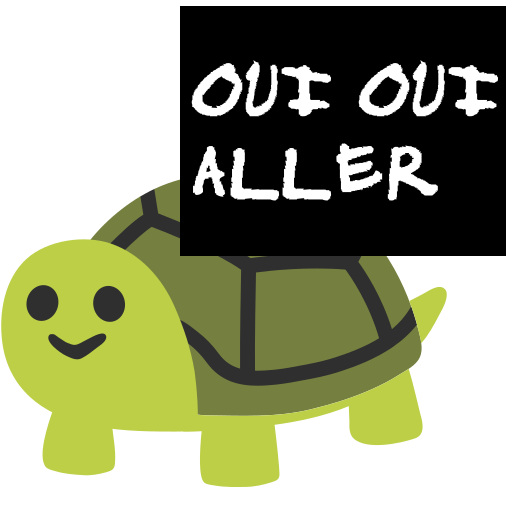
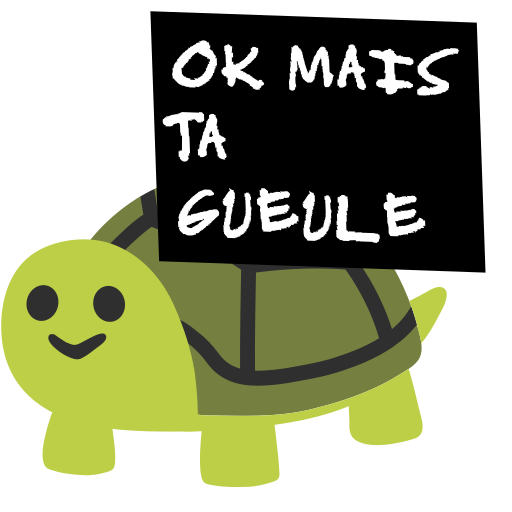
v1

Changed region(s): [[0.2812, 0.0, 1.0, 0.5312]]

diff --git a/turtlesay.py b/turtlesay.py
@@ -1,5 +1,6 @@
 #!/usr/bin/env python3
 
+from datetime import datetime
 from io import BytesIO
 import svgwrite
 from cairosvg import svg2png
@@ -28,12 +29,20 @@ def turtle_say(text, size=75, interline_ratio=0.5, side_pad=10) -> BytesIO:
     dwg.add(base_img)
 
     rect = svgwrite.shapes.Rect(txt_box_insert, txt_box_size)
-    dwg.add(rect)
+    # dwg.add(rect)
     
     txt = svgtextbox.textBuilder(text, txt_box_size[0] - side_pad, size, interline_ratio, font="James Tan Dinawanao")
     txt.center(txt_box_size[1])
     txt.translate(txt_box_insert[0] + side_pad, txt_box_insert[1])
-    dwg.add(txt)
+
+    txtgroup = svgwrite.container.Group()
+    txtgroup.add(rect)
+    txtgroup.add(txt)
+    txtgroup.skewX(2)
+    txtgroup.skewY(2)
+    txtgroup.translate(-30, 0)
+
+    dwg.add(txtgroup)
 
     # export as image
     svg_code = dwg.tostring()
@@ -41,8 +50,16 @@ def turtle_say(text, size=75, interline_ratio=0.5, side_pad=10) -> BytesIO:
     out = svg2png(bytestring=svg_code, write_to=None)
     with open("output.png", "wb") as f:
         f.write(out)
-    return out
+    return BytesIO(out)
 
 
 if __name__ == "__main__":
     turtle_say("OUI OUI ALLER")
+    turtle_say("TA GUEULE", 60, side_pad=20)
+    #turtle_say("NON", 140)
+    #turtle_say("Ok ...", 140)
+    turtle_say("Ok", 250, side_pad=25)
+    turtle_say("SAY", 170, side_pad=23)
+    turtle_say(str(datetime.now().strftime("%m/%d/%Y %H:%M:%S")), 65)
+    #turtle_say("RTFM", 130)
+    turtle_say("OK MAIS TA GUEULE", 67, side_pad=18)

diff --git a/bot.py b/bot.py
@@ -1,0 +1,31 @@
+#!/usr/bin/env python3
+from distutils.command.clean import clean
+from http import client
+import discord
+from datetime import datetime
+
+from turtlesay import turtle_say
+
+client = discord.Client()
+
+@client.event
+async def on_ready():
+    print(f'{client.user} has connected to Discord!')
+    user = await client.fetch_user(362904607720210432)
+    img = turtle_say(str(datetime.now().strftime("%m/%d/%Y %H:%M:%S")), 65)
+    await user.send(file=discord.File(fp=img, filename='logindate.png'))
+
+@client.event
+async def on_message(message):
+    if message.author == client.user:
+        return
+
+    if message.content.startswith('!say'):
+        img = turtle_say("OUI OUI ALLER")
+        await message.author.send(file=discord.File(fp=img, filename='turtle.png'))
+
+
+with open("TOKEN") as f:
+    TOKEN = f.read()
+    
+client.run(TOKEN)
